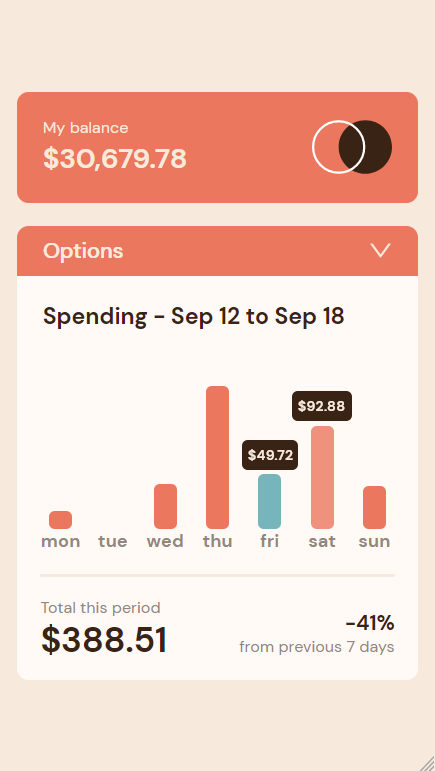
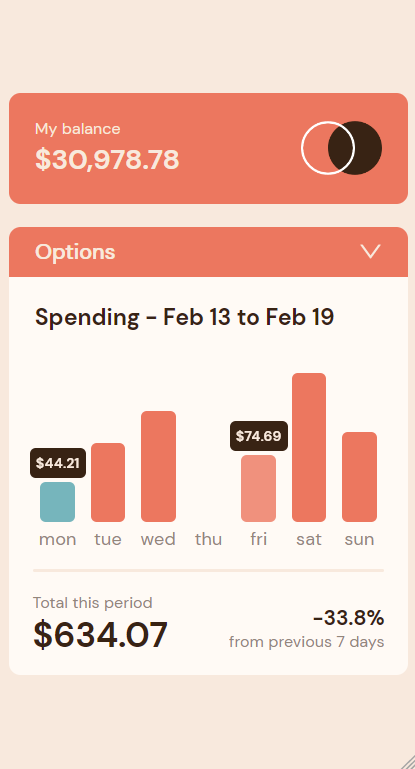
added graph blur when form is open

diff --git a/src/components/SpendingForm.js b/src/components/SpendingForm.js
@@ -2,12 +2,12 @@ import './SpendingForm.css';
 
 import {IconContext} from 'react-icons';
 import {AiOutlineDown, AiOutlineUp} from 'react-icons/ai';
-import {useState} from 'react';
+import {useState, useEffect, useRef} from 'react';
 
-function SpendingForm({startDate, endDate, onSubmit}) {
-    const [formOpen, setFormOpen] = useState(false);
+function SpendingForm({startDate, endDate, onSubmit, formOpen, setFormOpen}) {
     const [startingDate, setStartingDate] = useState(startDate);
     const [endingDate, setEndingDate] = useState(endDate)
+    const clickEl = useRef();
 
     // form open/close control handler
     const toggleForm = () => {
@@ -20,6 +20,20 @@ function SpendingForm({startDate, endDate, onSubmit}) {
         onSubmit(startingDate, endingDate)
         setFormOpen(false)
     }
+
+    // close the form if clicked outside of form
+    useEffect(() => {
+        const handler = (e) => {
+            if(!clickEl) return;
+            if(!clickEl.current.contains(e.target)) {
+                setFormOpen(false)
+            }
+        }
+
+        document.addEventListener('click', handler, true);
+
+        return () => document.removeEventListener('click', handler)
+    }, [setFormOpen])
 
     // conditional icon rendering based on if form is open
     const optionsIcon = formOpen ? <AiOutlineUp  /> : <AiOutlineDown />
@@ -57,7 +71,7 @@ function SpendingForm({startDate, endDate, onSubmit}) {
     }
 
     return (
-        <section className='form__container'>
+        <section className='form__container' ref={clickEl}>
             <div className='form__control' onClick={toggleForm}>
                 <h3 className='form__control--label'>Options</h3>
                 <button className='form__control--icon'>

diff --git a/src/components/AccountSpending.js b/src/components/AccountSpending.js
@@ -12,6 +12,8 @@ function AccountSpending({data}) {
     );
     const [currentPeriodData, setCurrentPeriodData] = useState(undefined);
     const [priorPeriodData, setPriorPeriodData] = useState(undefined);
+    const [formOpen, setFormOpen] = useState(false);
+
 
     // on initial render and start/end date updates build the graph data arrays and assign to respective state
     useEffect(() => {
@@ -28,11 +30,13 @@ function AccountSpending({data}) {
         setEndDate(fixTimeZone(new Date(end+'T00:00:00')))
     }
 
+    const formBlur = formOpen ? 'blur' : '';
+
     return (
         <section className='spending__container'>
-            {!startDate || !endDate ? undefined : <SpendingForm startDate={startDate} endDate={endDate} onSubmit={submitForm}/> }
+            {!startDate || !endDate ? undefined : <SpendingForm startDate={startDate} endDate={endDate} onSubmit={submitForm} formOpen={formOpen} setFormOpen={setFormOpen}/> }
 
-            {currentPeriodData ? <SpendingGraph currentData={currentPeriodData} priorData={priorPeriodData}/> : undefined}
+            {currentPeriodData ? <SpendingGraph asdf={formBlur} currentData={currentPeriodData} /> : undefined}
             
             {currentPeriodData ? <SpendingSummary currentData={currentPeriodData} priorData={priorPeriodData}/> : undefined}
         </section>

diff --git a/src/components/SpendingGraph.js b/src/components/SpendingGraph.js
@@ -2,7 +2,7 @@ import './SpendingGraph.css'
 import React, {useState, useEffect, useRef} from 'react'
 import {getWeekDay, getDay, getMonth, formatAmount} from '../helpers/Helpers';
 
-function SpendingGraph({currentData}) {
+function SpendingGraph({currentData, asdf}) {
     const [selected, setSelected] = useState(null);
     const [hovered, setHovered] = useState(null);
     const clickEl = useRef();
@@ -75,7 +75,7 @@ function SpendingGraph({currentData}) {
     })
 
     return (
-        <section className='graph__container'>
+        <section className={`graph__container ${asdf}`}>
             <div>{renderHeader}</div>
             <div className='graph__canvas' ref={clickEl}>
                 {renderGraph}        

diff --git a/src/components/SpendingGraph.css b/src/components/SpendingGraph.css
@@ -9,12 +9,14 @@
     color: var(--dark-brown);
 }
 
+
+
 .graph__canvas {
     display: flex;
     flex-direction: row;
     justify-content: space-between;
 
-    padding: 4rem 1rem 0 1rem;
+    padding: 2.5rem 1rem 0 1rem;
     margin: 0 1rem;
     min-height: 20rem;
 
@@ -29,8 +31,6 @@
     flex: 1;
     justify-content: flex-end;
 
-
-    /* max-width: 2rem; */
     min-width: 2rem;
 
     margin: 1rem;
@@ -107,6 +107,10 @@
     font-size: 1.6rem;
     font-family: DM-SansRegular;
     color: var(--medium-brown);
+}
+
+.blur {
+    filter: blur(3px);
 }
 
 @media only screen and (min-width: 26.5rem) {
